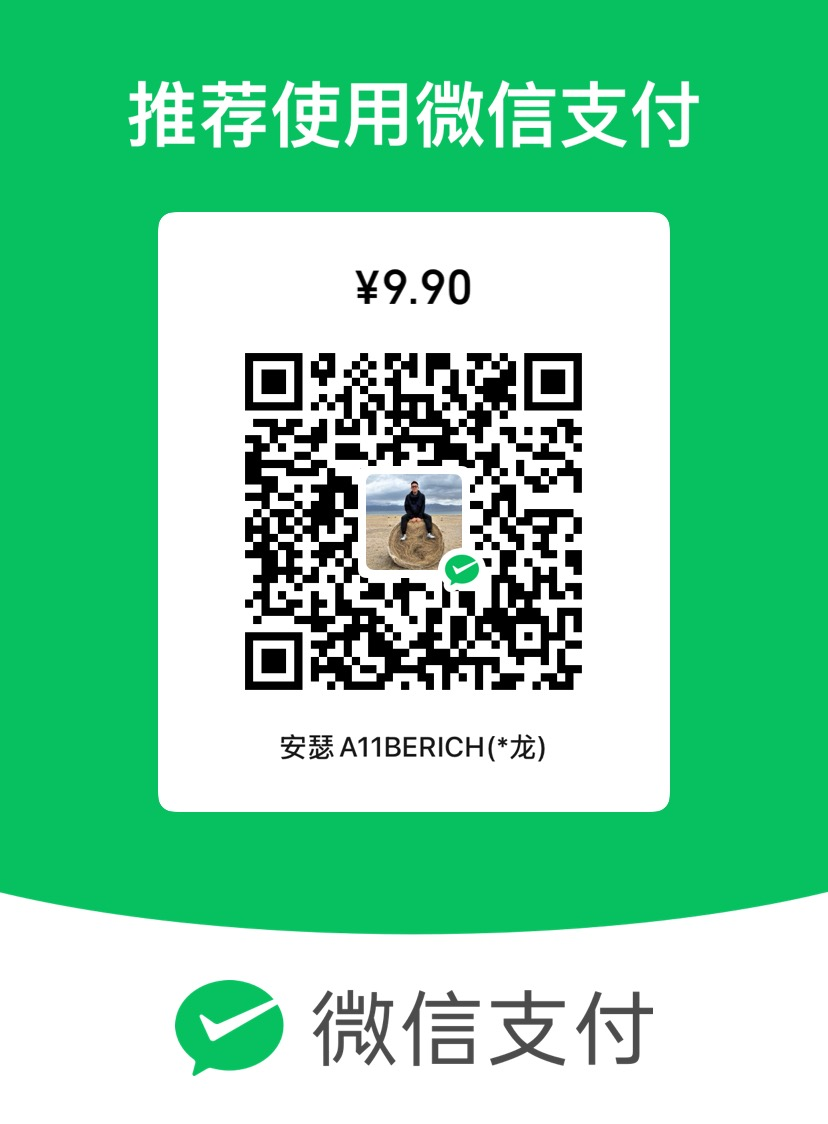
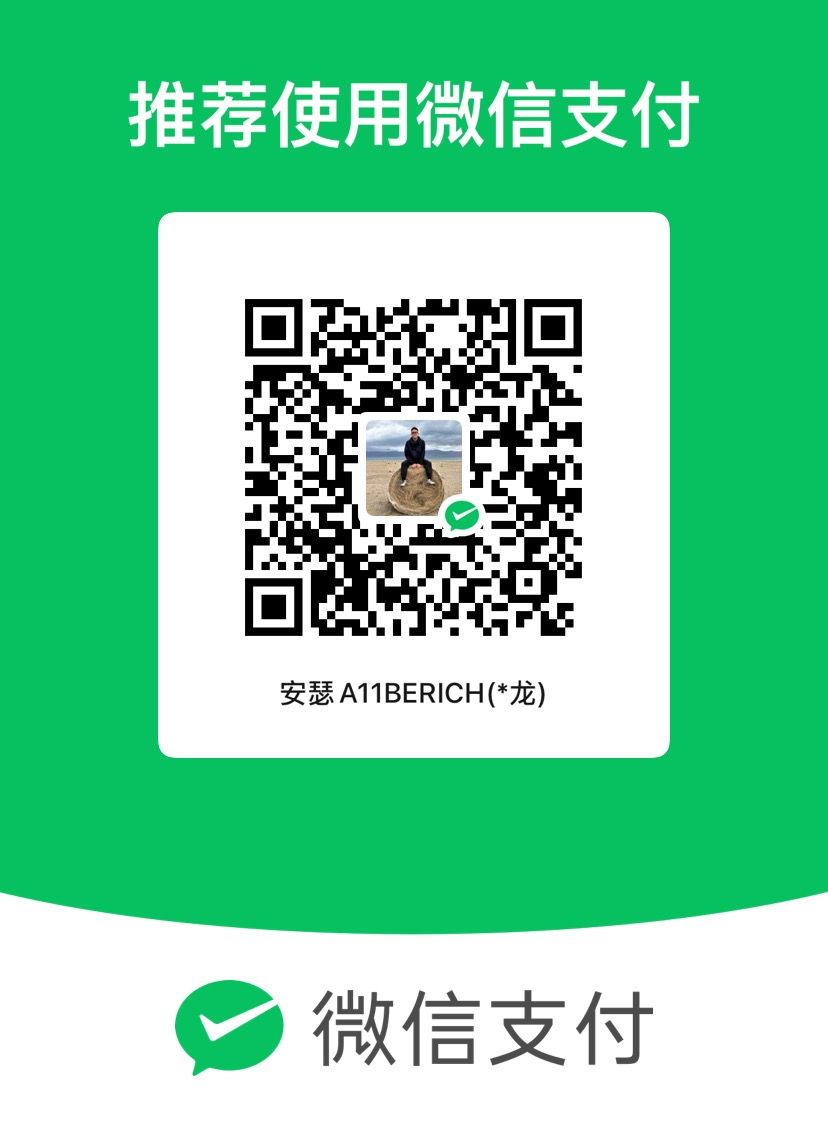
Add support coffee prompt

Changed region(s): [[0.1812, 0.218, 0.8152, 0.7473]]

diff --git a/app/components/workspace/WorkspaceToolRail.tsx b/app/components/workspace/WorkspaceToolRail.tsx
@@ -10,6 +10,9 @@ type WorkspaceToolAction = {
   onClick: () => void;
   disabled?: boolean;
   active?: boolean;
+  showCallout?: boolean;
+  calloutText?: string;
+  onDismissCallout?: () => void;
 };
 
 const WORKSPACE_WECHAT_ID = "iwbr1988";
@@ -41,6 +44,17 @@ function ToolIcon({ id }: { id: string }) {
         <path d="M4.8 5.2c0-1.1 2.3-2 5.2-2s5.2.9 5.2 2-2.3 2-5.2 2-5.2-.9-5.2-2Z" />
         <path d="M4.8 5.2v4.6c0 1.1 2.3 2 5.2 2s5.2-.9 5.2-2V5.2" />
         <path d="M4.8 9.8v4.6c0 1.1 2.3 2 5.2 2s5.2-.9 5.2-2V9.8" />
+      </svg>
+    );
+  }
+
+  if (id === "coffee") {
+    return (
+      <svg className="h-[18px] w-[18px]" viewBox="0 0 20 20" fill="none" stroke="currentColor" strokeWidth="1.7" strokeLinecap="round" strokeLinejoin="round">
+        <path d="M5.2 7h8.2v3.9a3.6 3.6 0 0 1-3.6 3.6h-1a3.6 3.6 0 0 1-3.6-3.6V7Z" />
+        <path d="M13.4 8.2h1.1a1.7 1.7 0 0 1 0 3.4h-1.1" />
+        <path d="M6.2 16h7" />
+        <path d="M7 4.2c.5.45.5.9 0 1.35M10 4.2c.5.45.5.9 0 1.35M13 4.2c.5.45.5.9 0 1.35" />
       </svg>
     );
   }
@@ -237,22 +251,42 @@ export function WorkspaceToolRail({
   bottomActions?: WorkspaceToolAction[];
 }) {
   const renderActionButton = (action: WorkspaceToolAction) => (
-    <button
-      key={action.id}
-      onClick={action.onClick}
-      disabled={action.disabled}
-      className={`group relative flex h-10 w-10 items-center justify-center rounded-[10px] border transition-all ${
-        action.active
-          ? "border-[#9297a0] bg-[#eef1ef] text-[var(--accent)]"
-          : "border-transparent bg-transparent text-[var(--ink-soft)] hover:border-[#dfe4e8] hover:bg-[#fbfcfd] hover:text-[var(--ink)]"
-      } ${action.disabled ? "cursor-not-allowed opacity-40" : "focus-visible:outline focus-visible:outline-2 focus-visible:outline-offset-2 focus-visible:outline-[#9297a0]"}`}
-      aria-label={action.label}
-    >
-      <ToolIcon id={action.id} />
-      <span className="pointer-events-none absolute left-[calc(100%+10px)] top-1/2 z-[80] hidden -translate-y-1/2 rounded-[7px] border border-[#9297a0] bg-[#fbfcfd] px-2.5 py-1 text-[11px] font-medium whitespace-nowrap text-[var(--ink)] shadow-[0_8px_18px_rgba(24,29,38,0.12)] group-hover:block">
-        {action.title}
-      </span>
-    </button>
+    <div key={action.id} className="relative">
+      <button
+        onClick={action.onClick}
+        disabled={action.disabled}
+        className={`group relative flex h-10 w-10 items-center justify-center rounded-[10px] border transition-all ${
+          action.active
+            ? "border-[#9297a0] bg-[#eef1ef] text-[var(--accent)]"
+            : "border-transparent bg-transparent text-[var(--ink-soft)] hover:border-[#dfe4e8] hover:bg-[#fbfcfd] hover:text-[var(--ink)]"
+        } ${action.disabled ? "cursor-not-allowed opacity-40" : "focus-visible:outline focus-visible:outline-2 focus-visible:outline-offset-2 focus-visible:outline-[#9297a0]"}`}
+        aria-label={action.label}
+      >
+        <ToolIcon id={action.id} />
+        <span className="pointer-events-none absolute left-[calc(100%+10px)] top-1/2 z-[80] hidden -translate-y-1/2 rounded-[7px] border border-[#9297a0] bg-[#fbfcfd] px-2.5 py-1 text-[11px] font-medium whitespace-nowrap text-[var(--ink)] shadow-[0_8px_18px_rgba(24,29,38,0.12)] group-hover:block">
+          {action.title}
+        </span>
+      </button>
+
+      {action.showCallout && action.calloutText && (
+        <div className="absolute bottom-0 left-[calc(100%+12px)] z-[90] w-[190px] rounded-[10px] border border-[#cfd6dc] bg-[#fbfcfd] px-3 py-2.5 text-[12px] leading-5 text-[var(--ink-soft)] shadow-[0_12px_28px_rgba(24,29,38,0.14)]">
+          <span className="absolute bottom-3 left-[-5px] h-2.5 w-2.5 rotate-45 border-b border-l border-[#cfd6dc] bg-[#fbfcfd]" />
+          <p className="pr-4">{action.calloutText}</p>
+          {action.onDismissCallout && (
+            <button
+              type="button"
+              onClick={action.onDismissCallout}
+              className="absolute right-1.5 top-1.5 rounded-[6px] p-1 text-[var(--ink-faint)] transition-colors hover:bg-[#f1f3f4] hover:text-[var(--ink)]"
+              aria-label="关闭提示"
+            >
+              <svg viewBox="0 0 20 20" fill="none" className="h-3.5 w-3.5">
+                <path d="M5 5L15 15M15 5L5 15" stroke="currentColor" strokeWidth="1.8" strokeLinecap="round" />
+              </svg>
+            </button>
+          )}
+        </div>
+      )}
+    </div>
   );
 
   return (

diff --git a/app/workspace/page.tsx b/app/workspace/page.tsx
@@ -16,6 +16,7 @@ import { DecisionTrainingPanel } from "../components/DecisionTrainingPanel";
 import { FeynmanPreview } from "../components/FeynmanPreview";
 import { UpgradeReadingModal } from "../components/UpgradeReadingModal";
 import { WorkspaceDisclaimerModal } from "../components/WorkspaceDisclaimerModal";
+import { SupportCoffeeModal } from "../components/SupportCoffeeModal";
 import { Toast } from "../components/Toast";
 import { FabMenu, type FabMenuHandle } from "../components/FabMenu";
 import { WorkspaceBookItem } from "../components/workspace/WorkspaceBookItem";
@@ -75,6 +76,7 @@ import {
   hasWorkspaceQuoteArtifacts,
   sanitizeWorkspaceQuote,
 } from "@/lib/workspaceQuote";
+import { shouldPromptCoffeeSupport } from "@/lib/supportCoffee.mjs";
 import type { DecisionOptionKey } from "@/types/decision";
 import {
   type GuidanceToast,
@@ -202,6 +204,7 @@ function markStarterBookExperienced(bookId: string) {
 const RETURNING_USER_TOAST_SESSION_KEY = "bookleap_returning_user_toast_seen";
 const HISTORY_REORGANIZED_KEY = "bookleap_history_reorganized_shown";
 const FAB_HISTORY_SEEN_KEY = "bookleap_fab_history_seen";
+const SUPPORT_COFFEE_PROMPT_SEEN_KEY = "bookleap_support_coffee_prompt_seen";
 const STARTER_LOADING_STEPS = [
   { text: "正在解析全书结构…", duration: 700 },
   { text: "正在提炼核心观点…", duration: 800 },
@@ -729,6 +732,22 @@ function markFabHistorySeen() {
   }
 }
 
+function hasSupportCoffeePromptBeenShown() {
+  try {
+    return localStorage.getItem(SUPPORT_COFFEE_PROMPT_SEEN_KEY) === "1";
+  } catch {
+    return false;
+  }
+}
+
+function markSupportCoffeePromptShown() {
+  try {
+    localStorage.setItem(SUPPORT_COFFEE_PROMPT_SEEN_KEY, "1");
+  } catch {
+    // ignore
+  }
+}
+
 function loadDecisionScenarioCache(bookId: string): DecisionScenario[] {
   try {
     const raw = localStorage.getItem(getDecisionCacheKey(bookId));
@@ -945,6 +964,8 @@ export default function Home() {
   const [isLoadingIdeaSourceTracing, setIsLoadingIdeaSourceTracing] = useState(false);
   const [exportStatus, setExportStatus] = useState<"idle" | "exporting" | "success">("idle");
   const [isExportModalOpen, setIsExportModalOpen] = useState(false);
+  const [isSupportCoffeeModalOpen, setIsSupportCoffeeModalOpen] = useState(false);
+  const [showSupportCoffeeCallout, setShowSupportCoffeeCallout] = useState(false);
   const [isLiteMode, setIsLiteMode] = useState(false);
   const [isLiteUnlocked, setIsLiteUnlocked] = useState(false);
   const [isPaywallModalOpen, setIsPaywallModalOpen] = useState(false);
@@ -1207,6 +1228,7 @@ export default function Home() {
   const isUploadShortcutBlocked =
     isWorkspaceSearchOpen ||
     isExportModalOpen ||
+    isSupportCoffeeModalOpen ||
     isPaywallModalOpen ||
     isPosterModalOpen ||
     isFeynmanPreviewOpen ||
@@ -1574,6 +1596,15 @@ export default function Home() {
     // 不再自动进入 starter mode，新用户默认看到上传区
     setIsStarterModeVisible(false);
   }, []);
+
+  useEffect(() => {
+    if (
+      shouldPromptCoffeeSupport(recentHistory, hasSupportCoffeePromptBeenShown())
+    ) {
+      markSupportCoffeePromptShown();
+      setShowSupportCoffeeCallout(true);
+    }
+  }, [recentHistory]);
 
   useEffect(() => {
     if (!currentBookId) {
@@ -3787,6 +3818,19 @@ export default function Home() {
   ];
   const bottomToolActions = [
     {
+      id: "coffee",
+      label: "请书跃喝杯咖啡",
+      title: "请书跃喝杯咖啡",
+      onClick: () => {
+        setShowSupportCoffeeCallout(false);
+        setIsSupportCoffeeModalOpen(true);
+      },
+      active: isSupportCoffeeModalOpen,
+      showCallout: showSupportCoffeeCallout,
+      calloutText: "已经认真拆完 3 本书了。愿意的话，请书跃喝杯咖啡。",
+      onDismissCallout: () => setShowSupportCoffeeCallout(false),
+    },
+    {
       id: "backup",
       label: "数据备份",
       title: "数据备份 · B",
@@ -4749,6 +4793,10 @@ export default function Home() {
 
       {isDisclaimerModalOpen && (
         <WorkspaceDisclaimerModal onAccept={handleAcceptWorkspaceDisclaimer} />
+      )}
+
+      {isSupportCoffeeModalOpen && (
+        <SupportCoffeeModal onClose={() => setIsSupportCoffeeModalOpen(false)} />
       )}
 
       {isBackupNoticeOpen && (

diff --git a/app/components/SupportCoffeeModal.tsx b/app/components/SupportCoffeeModal.tsx
@@ -1,0 +1,87 @@
+"use client";
+
+import { useState } from "react";
+
+const SUPPORT_AMOUNTS = ["9.9", "29.9", "99.9", "任意金额"] as const;
+
+export function SupportCoffeeModal({ onClose }: { onClose: () => void }) {
+  const [selectedAmount, setSelectedAmount] =
+    useState<(typeof SUPPORT_AMOUNTS)[number]>("9.9");
+  const amountLabel = selectedAmount === "任意金额" ? "任意金额" : `${selectedAmount} 元`;
+
+  return (
+    <div
+      className="fixed inset-0 z-[80] flex items-center justify-center bg-[rgba(24,29,38,0.34)] px-4 backdrop-blur-[2px]"
+      onMouseDown={(event) => {
+        if (event.target === event.currentTarget) onClose();
+      }}
+    >
+      <div className="w-full max-w-[420px] overflow-hidden rounded-[14px] border border-[#dfe4e8] bg-[#fbfcfd] shadow-[0_18px_44px_rgba(24,29,38,0.18)]">
+        <div className="flex items-start justify-between gap-4 border-b border-[#e5e8eb] px-5 py-4">
+          <div>
+            <p className="text-[15px] font-semibold text-[var(--ink)]">
+              请书跃喝杯咖啡
+            </p>
+            <p className="mt-1 text-[12px] leading-5 text-[var(--ink-faint)]">
+              如果书跃帮助了你，那请开发者喝杯咖啡吧。
+            </p>
+          </div>
+          <button
+            type="button"
+            onClick={onClose}
+            className="shrink-0 rounded-[8px] p-1.5 text-[var(--ink-faint)] transition-colors hover:bg-[#f1f3f4] hover:text-[var(--ink)] focus-visible:outline focus-visible:outline-2 focus-visible:outline-offset-2 focus-visible:outline-[#9297a0]"
+            aria-label="关闭赞赏弹窗"
+          >
+            <svg viewBox="0 0 20 20" fill="none" className="h-4 w-4">
+              <path
+                d="M5 5L15 15M15 5L5 15"
+                stroke="currentColor"
+                strokeWidth="1.8"
+                strokeLinecap="round"
+              />
+            </svg>
+          </button>
+        </div>
+
+        <div className="px-5 py-5">
+          <div className="grid grid-cols-4 gap-2">
+            {SUPPORT_AMOUNTS.map((amount) => {
+              const isSelected = selectedAmount === amount;
+              return (
+                <button
+                  key={amount}
+                  type="button"
+                  onClick={() => setSelectedAmount(amount)}
+                  className={`rounded-[10px] border px-2 py-2.5 text-[13px] font-medium transition-all focus-visible:outline focus-visible:outline-2 focus-visible:outline-offset-2 focus-visible:outline-[#9297a0] ${
+                    isSelected
+                      ? "border-[#181d26] bg-[#181d26] text-[#fbfcfd]"
+                      : "border-[#dfe4e8] bg-[#f8fafc] text-[var(--ink-soft)] hover:border-[#9297a0] hover:bg-[#fbfcfd] hover:text-[var(--ink)]"
+                  }`}
+                >
+                  {amount}
+                </button>
+              );
+            })}
+          </div>
+
+          <div className="mt-5 rounded-[12px] border border-[#e5e8eb] bg-[#f8fafc] p-4">
+            <div className="mx-auto h-[220px] w-[220px] overflow-hidden rounded-[10px] border border-[#dfe4e8] bg-[#fbfcfd] p-2">
+              {/* eslint-disable-next-line @next/next/no-img-element */}
+              <img
+                src="/wechat-pay-qrcode.jpg"
+                alt="微信收款二维码"
+                className="h-full w-full object-contain"
+              />
+            </div>
+            <p className="mt-4 text-center text-[13px] font-medium text-[var(--ink)]">
+              当前选择：{amountLabel}
+            </p>
+            <p className="mt-1 text-center text-[12px] leading-5 text-[var(--ink-faint)]">
+              请扫码后在微信里按当前选择金额支付。
+            </p>
+          </div>
+        </div>
+      </div>
+    </div>
+  );
+}

diff --git a/lib/supportCoffee.d.ts b/lib/supportCoffee.d.ts
@@ -1,0 +1,16 @@
+export const SUPPORT_COFFEE_PROMPT_THRESHOLD: 3;
+
+export type SupportCoffeeHistoryRecord = {
+  id?: string;
+  title?: string;
+  isStarterBook?: boolean;
+};
+
+export function countSelfUploadedBooks(
+  records: SupportCoffeeHistoryRecord[]
+): number;
+
+export function shouldPromptCoffeeSupport(
+  records: SupportCoffeeHistoryRecord[],
+  hasPrompted: boolean
+): boolean;
